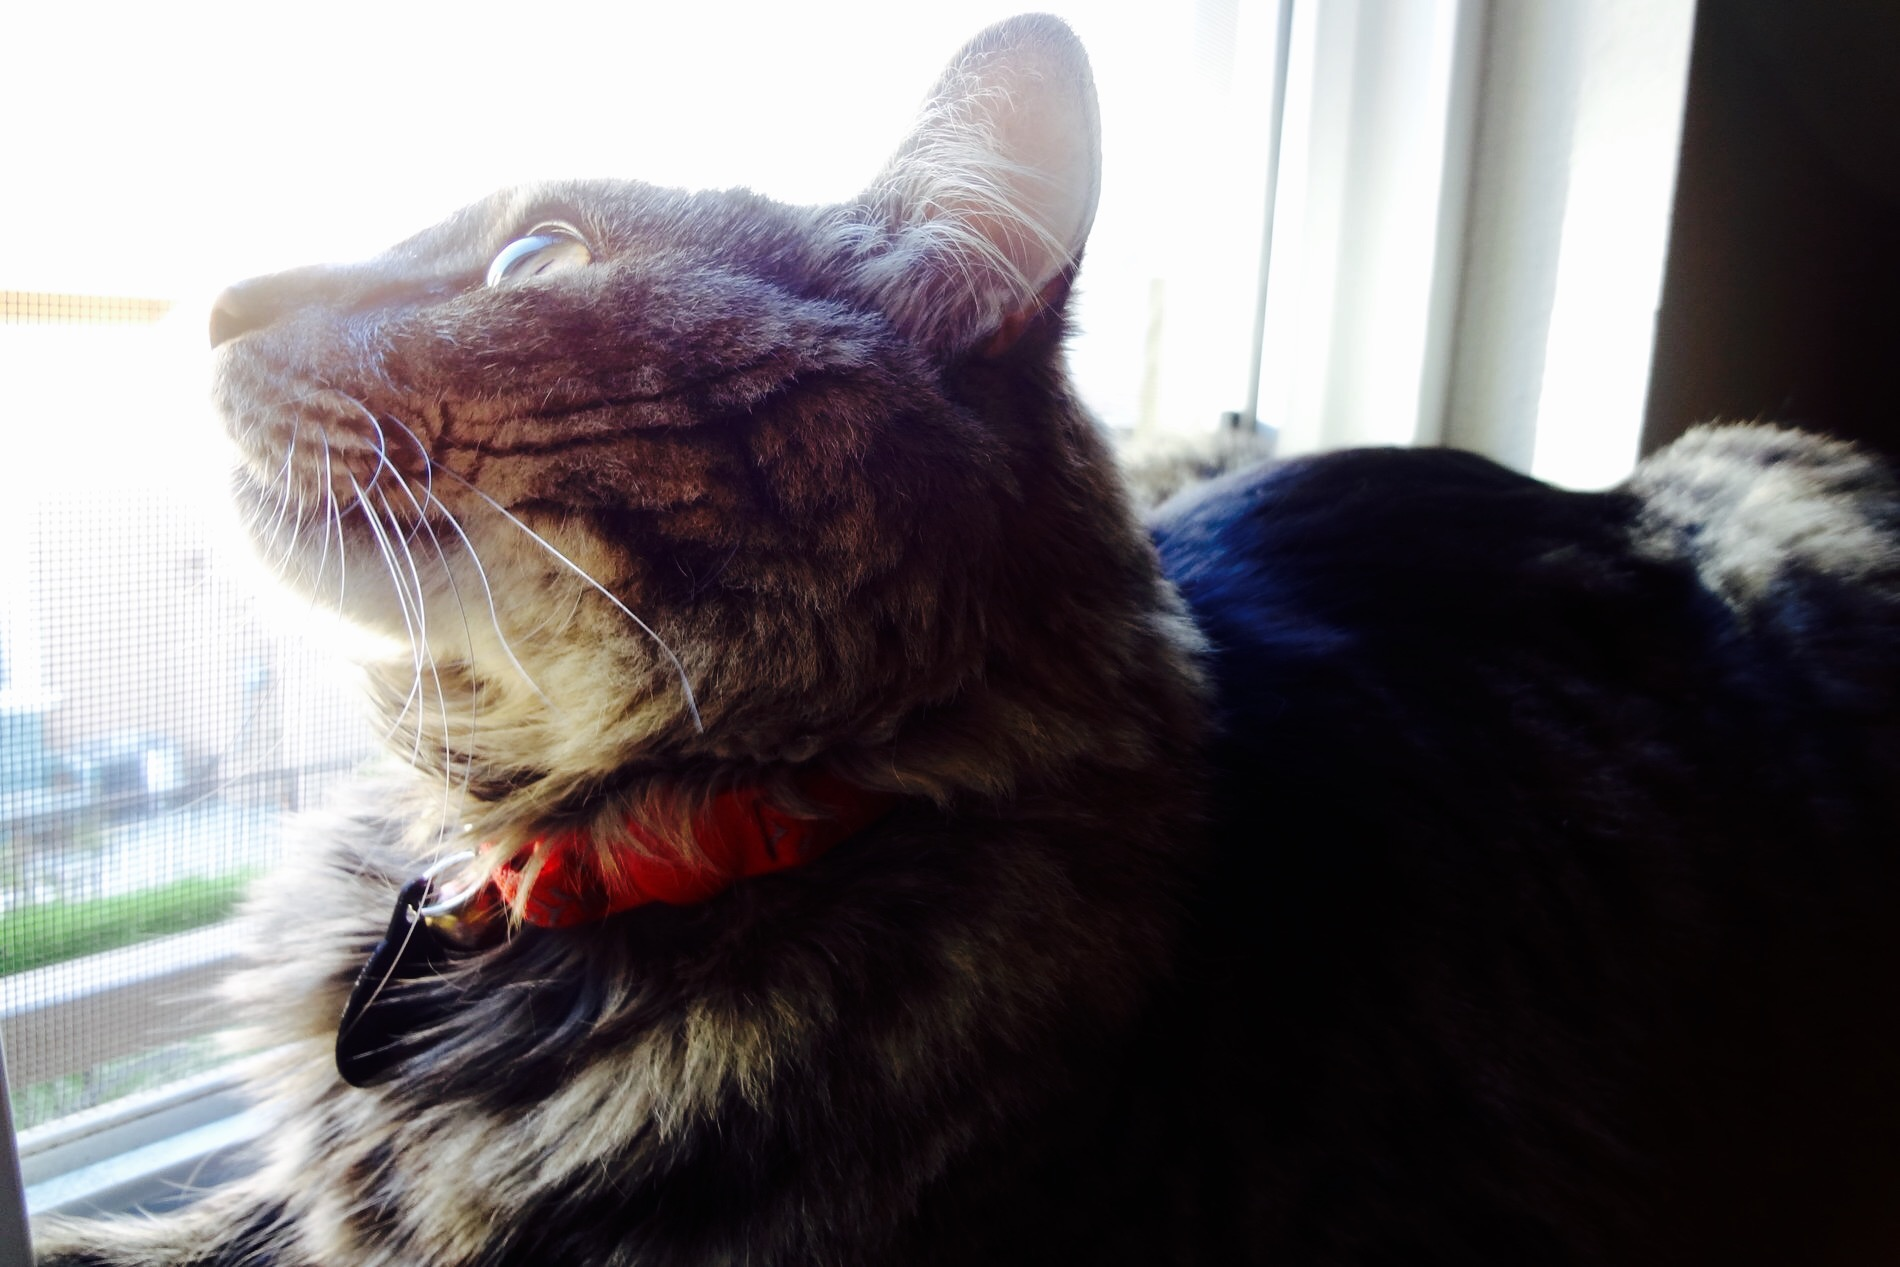
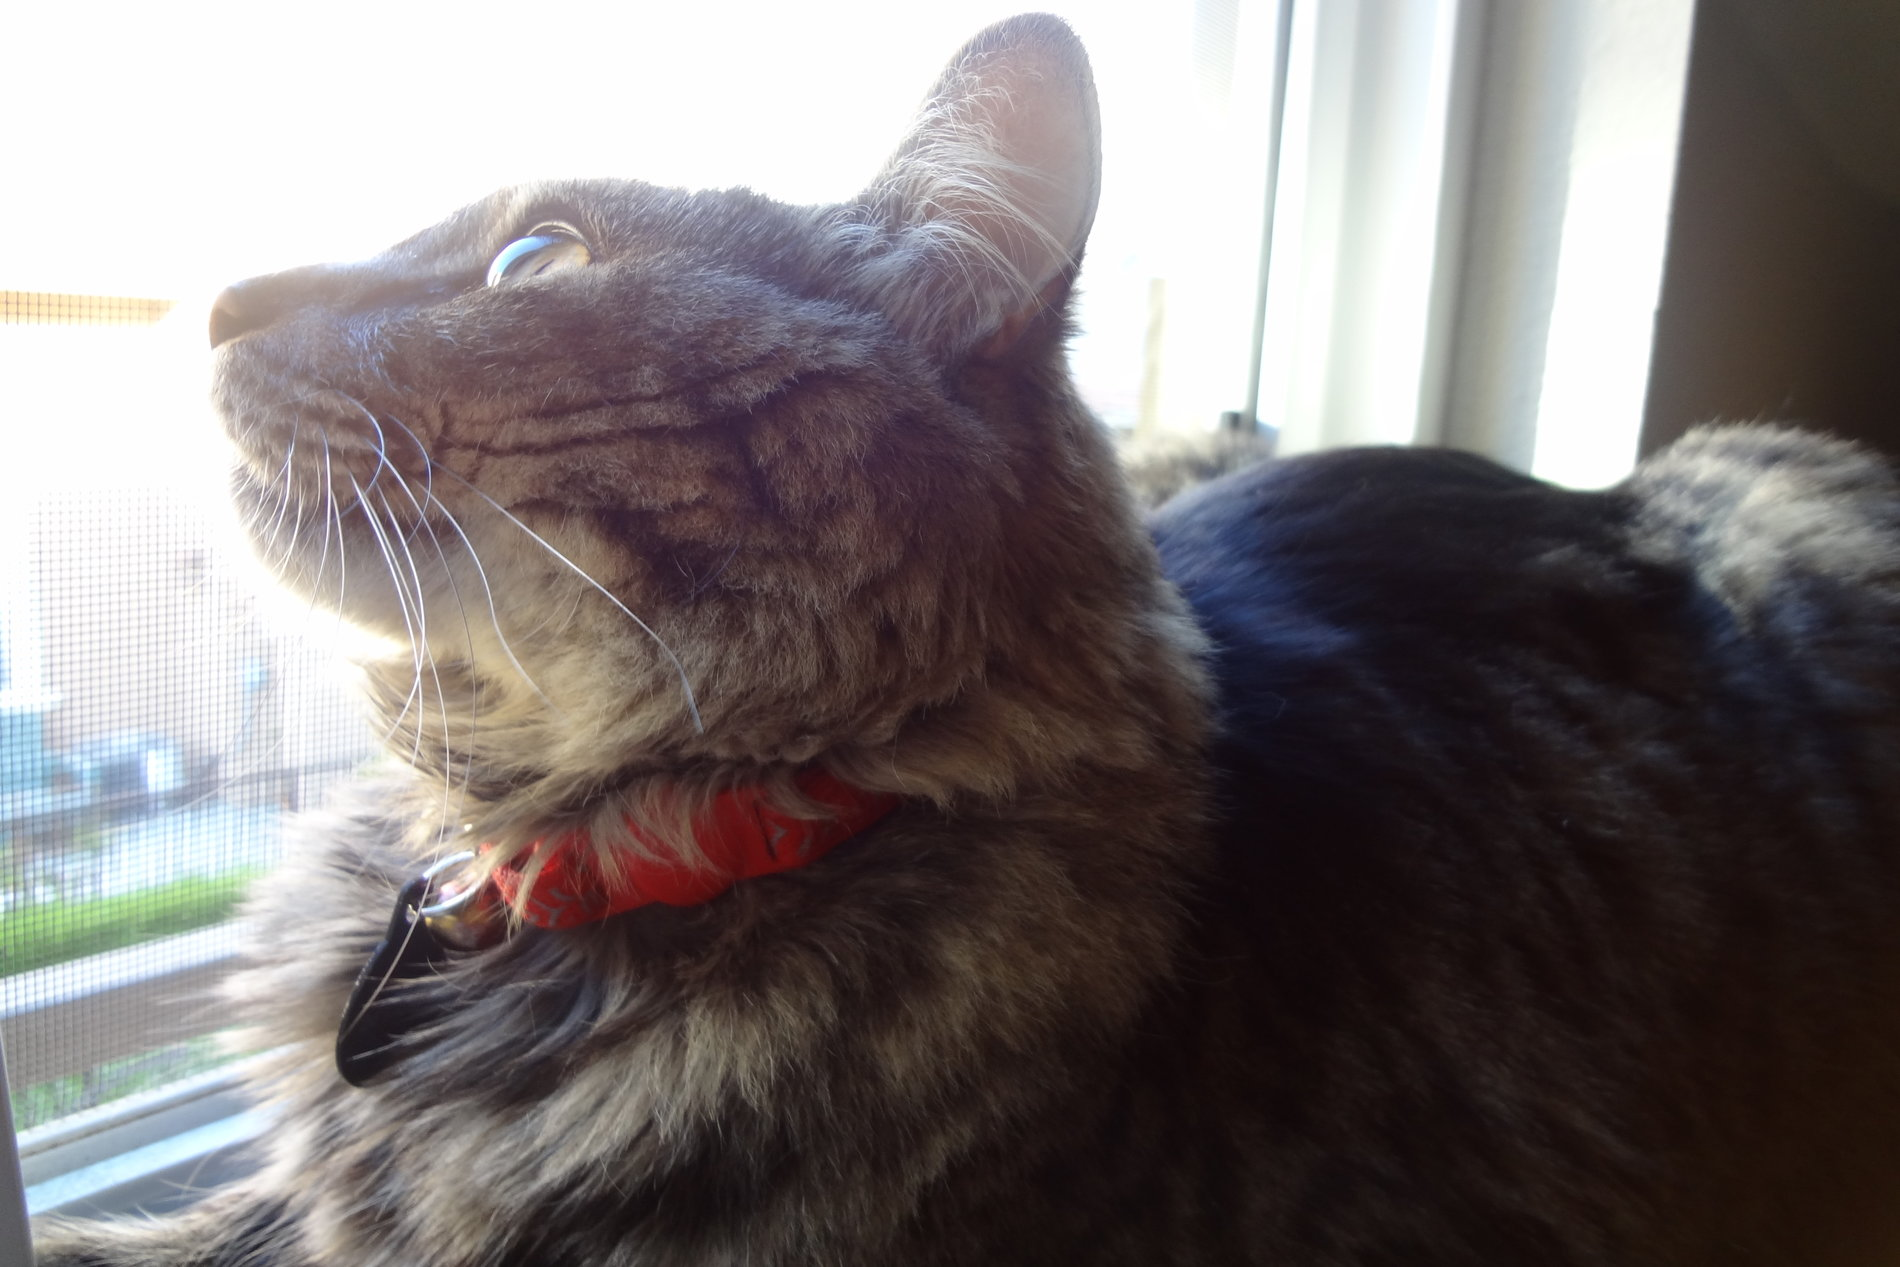
Updated landing-page.css

diff --git a/css/landing-page.css b/css/landing-page.css
@@ -31,7 +31,7 @@ h6 {
     padding-bottom: 50px;
     text-align: center;
     color: #f8f8f8;
-    background: url(../img/rsz_1dsc00627.jpg) no-repeat center center;
+    background: url(../img/rsz_1dsc00627_darker.png) no-repeat center center;
     background-size: cover;
 }
 
